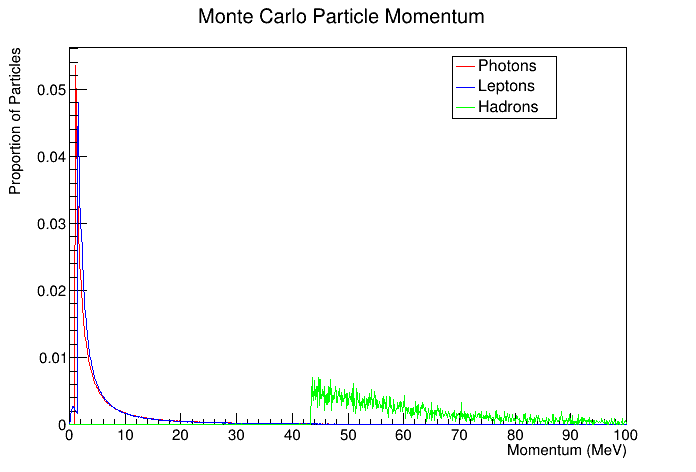
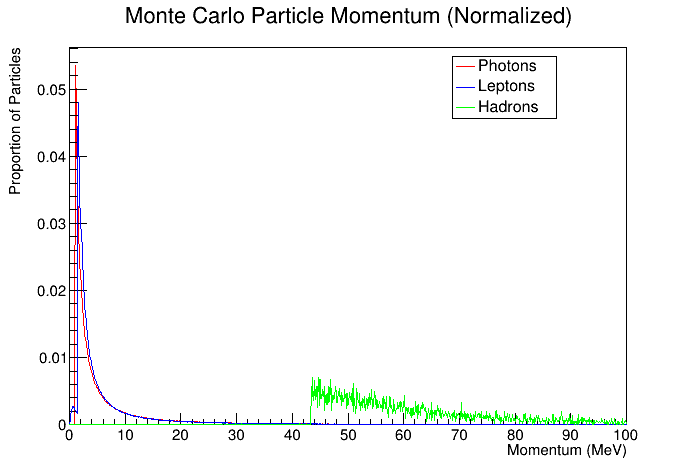
retitled guinea pig energy plots

Changed region(s): [[0.181, 0.0, 0.8147, 0.0593]]

diff --git a/python/mc_energy_plotter.py b/python/mc_energy_plotter.py
@@ -22,31 +22,31 @@ for event in events:
         particle_energies[p_type].append(1000*particle.getEnergy())
         particle_momentums[p_type].append(1000*np.sqrt(particle.getMomentum().x**2 + particle.getMomentum().y**2 + particle.getMomentum().z**2))
 
-# energy_hist = ROOT.TH1F("energy", "Monte Carlo Particle Energy", 500, 0, 50)
+# energy_hist = ROOT.TH1F("energy", "Monte Carlo All Particles Energy", 500, 0, 50)
 # for energy_list in particle_energies.values():
 #     for e in energy_list:
 #         energy_hist.Fill(e)
 # energy_hist.GetXaxis().SetTitle("Energy (MeV)")
 # energy_hist.GetYaxis().SetTitle("Number of Particles")
-# energy_canvas = ROOT.TCanvas("energy", "Monte Carlo Particle Energy")
+# energy_canvas = ROOT.TCanvas("energy", "Monte Carlo All Particles Energy")
 # energy_hist.Draw()
 # energy_canvas.Update()
-# energy_canvas.SaveAs("../plots/monte_carlo/guinea_pig_energy.png")
+# energy_canvas.SaveAs("../plots/monte_carlo/guinea_pig_all_energy.png")
 
-# momentum_hist = ROOT.TH1F("momentum", "Monte Carlo Particle Momentum", 500, 0, 50)
+# momentum_hist = ROOT.TH1F("momentum", "Monte Carlo All Particles Momentum", 500, 0, 50)
 # for momentum_list in particle_momentums.values():
 #     for p in momentum_list:
 #         momentum_hist.Fill(p)
 # momentum_hist.GetXaxis().SetTitle("Momentum (MeV)")
 # momentum_hist.GetYaxis().SetTitle("Number of Particles")
-# momentum_canvas = ROOT.TCanvas("momentum", "Monte Carlo Particle Momentum")
+# momentum_canvas = ROOT.TCanvas("momentum", "Monte Carlo All Particles Momentum")
 # momentum_hist.Draw()
 # momentum_canvas.Update()
-# momentum_canvas.SaveAs("../plots/monte_carlo/guinea_pig_momentum.png")
+# momentum_canvas.SaveAs("../plots/monte_carlo/guinea_pig_all_momentum.png")
 
-photon_energy_hist = ROOT.TH1F("Photon Energy", "Monte Carlo Particle Energy", 5000, 0, 1000)
-lepton_energy_hist = ROOT.TH1F("Lepton Energy", "Monte Carlo Particle Energy", 5000, 0, 1000)
-hadron_energy_hist = ROOT.TH1F("Hadron Energy", "Monte Carlo Particle Energy", 5000, 0, 1000)
+photon_energy_hist = ROOT.TH1F("Photon Energy", "Monte Carlo Particle Energy (Normalized)", 5000, 0, 1000)
+lepton_energy_hist = ROOT.TH1F("Lepton Energy", "Monte Carlo Particle Energy (Normalized)", 5000, 0, 1000)
+hadron_energy_hist = ROOT.TH1F("Hadron Energy", "Monte Carlo Particle Energy (Normalized)", 5000, 0, 1000)
 
 for p in particle_energies["photon"]:
     photon_energy_hist.Fill(p)
@@ -81,9 +81,9 @@ energy_legend.Draw()
 canvas.Update()
 canvas.SaveAs("../plots/monte_carlo/guinea_pig_energy_combined.png")
 
-photon_momentum_hist = ROOT.TH1F("Photon Momentum", "Monte Carlo Particle Momentum", 1000, 0, 100)
-lepton_momentum_hist = ROOT.TH1F("Lepton Momentum", "Monte Carlo Particle Momentum", 1000, 0, 100)
-hadron_momentum_hist = ROOT.TH1F("Hadron Momentum", "Monte Carlo Particle Momentum", 1000, 0, 100)
+photon_momentum_hist = ROOT.TH1F("Photon Momentum", "Monte Carlo Particle Momentum (Normalized)", 1000, 0, 100)
+lepton_momentum_hist = ROOT.TH1F("Lepton Momentum", "Monte Carlo Particle Momentum (Normalized)", 1000, 0, 100)
+hadron_momentum_hist = ROOT.TH1F("Hadron Momentum", "Monte Carlo Particle Momentum (Normalized)", 1000, 0, 100)
 
 for p in particle_momentums["photon"]:
     photon_momentum_hist.Fill(p)

diff --git a/python/higgs_hit_rate.py b/python/higgs_hit_rate.py
@@ -66,20 +66,20 @@ for i in range(1000):
             azimuthal = phi(x, y) * (180 / math.pi)
             hit_map[r][int((z // 2) * 2)][int((azimuthal // 3) * 3)][i] += 1
 
-for layer_index in range(3):
+# for layer_index in range(3):
 
-    r = radii[layer_index]
-    hist = ROOT.TH2F("hit map", f"Guinea Pig Layer {layer_index + 1} Module Hits", \
-                    110, -110, 110, 120, 0, 360)
-    hist.SetTitle(f"Layer {layer_index + 1} Hits per Bunch Crossing;z (mm);Azimuthal Angle (deg)")
+#     r = radii[layer_index]
+#     hist = ROOT.TH2F("hit map", f"Guinea Pig Layer {layer_index + 1} Module Hits", \
+#                     110, -110, 110, 120, 0, 360)
+#     hist.SetTitle(f"Layer {layer_index + 1} Hits per Bunch Crossing;z (mm);Azimuthal Angle (deg)")
 
-    for z in range(-110, 110, 2):
-        for azimuthal in range(0, 360, 3):
-            hits = np.mean(hit_map[r][z][azimuthal])
-            hist.SetBinContent(((z + 110) // 2) + 1, (azimuthal // 3) + 1, hits)
+#     for z in range(-110, 110, 2):
+#         for azimuthal in range(0, 360, 3):
+#             hits = np.mean(hit_map[r][z][azimuthal])
+#             hist.SetBinContent(((z + 110) // 2) + 1, (azimuthal // 3) + 1, hits)
 
-    hist.SetStats(0)
-    canvas = ROOT.TCanvas("hit map", f"Layer {layer_index + 1} Hits")
-    hist.Draw("colz")
-    canvas.Update()
-    canvas.SaveAs(f"../plots/hit_rates/higgs/higgs_layer{layer_index + 1}_hit_rate.png")
+#     hist.SetStats(0)
+#     canvas = ROOT.TCanvas("hit map", f"Layer {layer_index + 1} Hits")
+#     hist.Draw("colz")
+#     canvas.Update()
+#     canvas.SaveAs(f"../plots/hit_rates/higgs/higgs_layer{layer_index + 1}_hit_rate.png")
